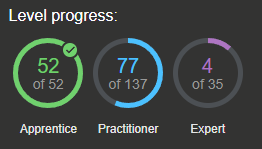
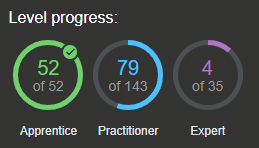
Split completion by level

diff --git a/README.md b/README.md
@@ -16,34 +16,36 @@ So I create the scripts to learn about python and how to use it to interact with
 
 ## Status
 
-| ID | Topic | | Status |
-| --- | --- | :---: | :---: |
+| ID | Topic | Apprentice | Practitioner | Expert | 
+| --- | --- | :---: | :---: | :---: | :---: |
 |    | **Server-side topics** ||
-| 01 | SQL injection | :heavy_check_mark: | 16/16 |
-| 02 | Authentication | :heavy_check_mark: | 14/14 |
-| 03 | Directory traversal | :heavy_check_mark: | 6/6 |
-| 04 | Command inection | :heavy_check_mark: | 5/5 |
-| 05 | Business logic vulnerabilities | | 10/11 |
-| 06 | Information disclosure | :heavy_check_mark: | 5/5 |
-| 07 | Access control | :heavy_check_mark: | 13/13 |
-| 08 | File upload vulnerabilities | | 6/7 |
-| 09 | Server-side request forgery (SSRF) | :heavy_check_mark: | 7/7 |
-| 10 | XXE injection | :heavy_check_mark: | 9/9 |
+| 01 | SQL injection | :heavy_check_mark: 2/2 | :heavy_multiplication_x: 14/15 | - |
+| 02 | Authentication | :heavy_check_mark: 3/3 | :heavy_check_mark: 9/9 | :heavy_check_mark: 2/2 | 
+| 03 | Directory traversal | :heavy_check_mark: 1/1 | :heavy_check_mark: 5/5 | - |
+| 04 | Command inection | :heavy_check_mark: 1/1 | :heavy_check_mark: 4/4 | - |
+| 05 | Business logic vulnerabilities | :heavy_check_mark: 4/4 | :heavy_multiplication_x: 6/7 | - |
+| 06 | Information disclosure | :heavy_check_mark: 4/4 | :heavy_check_mark: 1/1 | - |
+| 07 | Access control | :heavy_check_mark: 9/9 | :heavy_check_mark: 4/4 | - |
+| 08 | File upload vulnerabilities | :heavy_check_mark: 2/2 | :heavy_check_mark: 4/4 | :heavy_multiplication_x: 0/1 |
+| 09 | Server-side request forgery (SSRF) | :heavy_check_mark: 2/2 | :heavy_check_mark: 3/3 | :heavy_check_mark: 2/2 |
+| 10 | XXE injection | :heavy_check_mark: 2/2 | :heavy_check_mark: 6/6 | :heavy_check_mark: 1/1|
 |    | **Client-side topics** ||
-| 11 | Cross-site scripting (XSS) || 22/30 |
-| 12 | Cross-site request forgery (CSRF) | :heavy_check_mark: | 8/8 |
-| 13 | Cross-origin resource sharing (CORS) || 3/4 |
-| 14 | Clickjacking | :heavy_check_mark: | 5/5 |
-| 15 | DOM-based vulnerabilities || 5/7 |
-| 16 | WebSockets | :heavy_check_mark: | 3/3 |
+| 11 | Cross-site scripting (XSS) | :heavy_check_mark: 9/9 | :heavy_multiplication_x: 13/15 | :heavy_multiplication_x: 0/6 |
+| 12 | Cross-site request forgery (CSRF) | :heavy_check_mark: 1/1 | :heavy_check_mark: 7/7 | - |
+| 13 | Cross-origin resource sharing (CORS) | :heavy_check_mark: 2/2 | :heavy_check_mark: 1/1 | :heavy_multiplication_x: 0/1  |
+| 14 | Clickjacking | :heavy_check_mark: 3/3 | :heavy_check_mark: 2/2 | - |
+| 15 | DOM-based vulnerabilities | - | :heavy_check_mark: 5/5 | :heavy_multiplication_x: 0/2 |
+| 16 | WebSockets | :heavy_check_mark: 1/1 | :heavy_check_mark: 2/2 | - |
 |    | **Advanced topics** || 
-| 17 | Insecure deserialization || 6/10 |
-| 18 | Server-side template injection || 0/7 |
-| 19 | Web cache poisoning || 0/13 |
-| 20 | HTTP Host header attacks || 2/6 |
-| 21 | HTTP request smuggling || 1/12 |
-| 22 | OAuth authentication || 2/6 |
-| 23 | JWT attacks || 4/8 |
+| 17 | Insecure deserialization | :heavy_check_mark: 1/1 | :heavy_multiplication_x: 5/6 | :heavy_multiplication_x: 0/3 |
+| 18 | Server-side template injection | - | :heavy_multiplication_x: 1/5 | :heavy_multiplication_x: 0/2 |
+| 19 | Web cache poisoning | - | :heavy_multiplication_x: 0/9 | :heavy_multiplication_x: 0/4 |
+| 20 | HTTP Host header attacks | :heavy_check_mark: 2/2 | :heavy_multiplication_x: 0/4 | :heavy_multiplication_x: 0/1 |
+| 21 | HTTP request smuggling | - | :heavy_multiplication_x: 1/15 | :heavy_multiplication_x: 0/7 |
+| 22 | OAuth authentication | :heavy_check_mark: 1/1 | :heavy_multiplication_x: 1/4 | :heavy_multiplication_x: 0/1 |
+| 23 | JWT attacks | :heavy_check_mark: 2/2 | :heavy_multiplication_x: 2/4 | :heavy_multiplication_x: 0/2 |
+| 24 | Client-side prototype pollution | - | :heavy_multiplication_x: 0/5 | - |
+| 25 | Essential skills | - | :heavy_multiplication_x: 0/1 | - |
 
 Current status of script solutions:
 

diff --git a/.templates/README.md b/.templates/README.md
@@ -21,7 +21,11 @@ lab_description
 
 As usual, the first step is to analyze the functionality of the lab application. In this lab, it is XXX
 
+---
+
 ### The theory
+
+---
 
 ### The malicious payload
 
